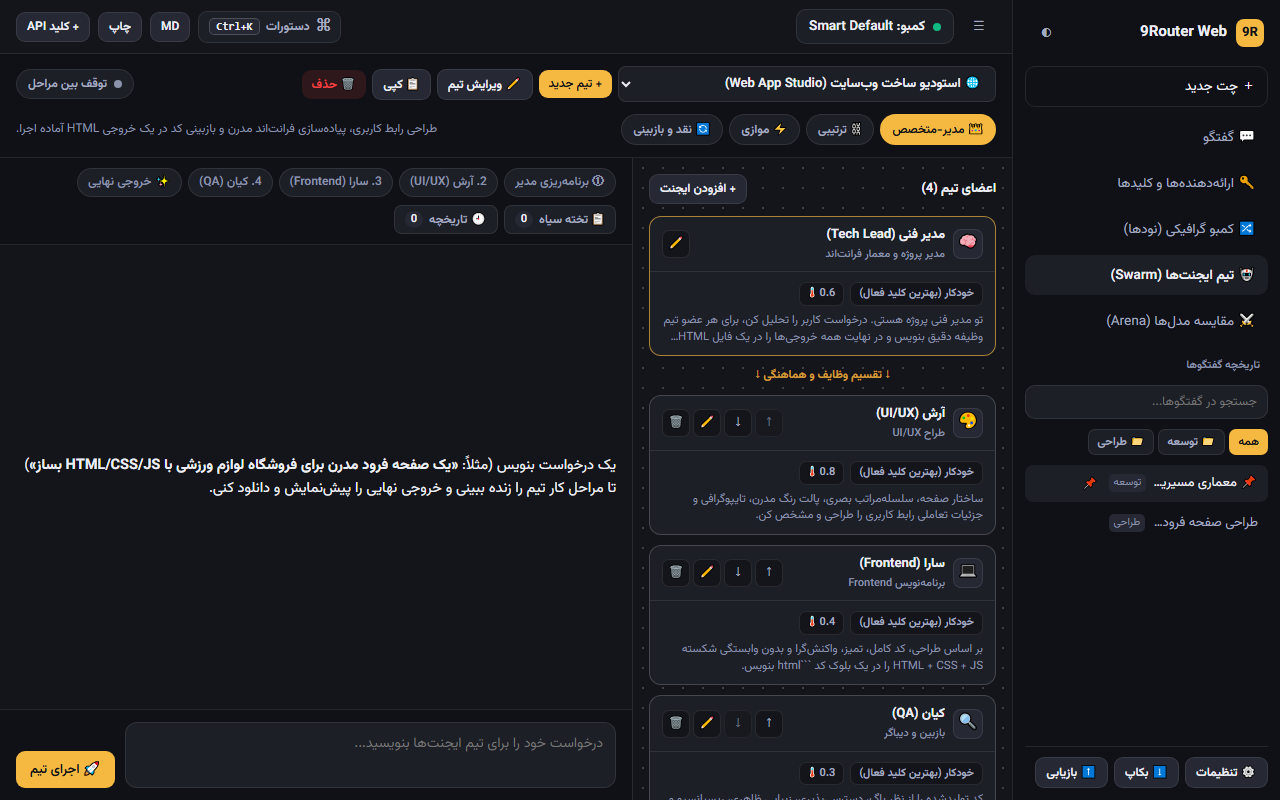
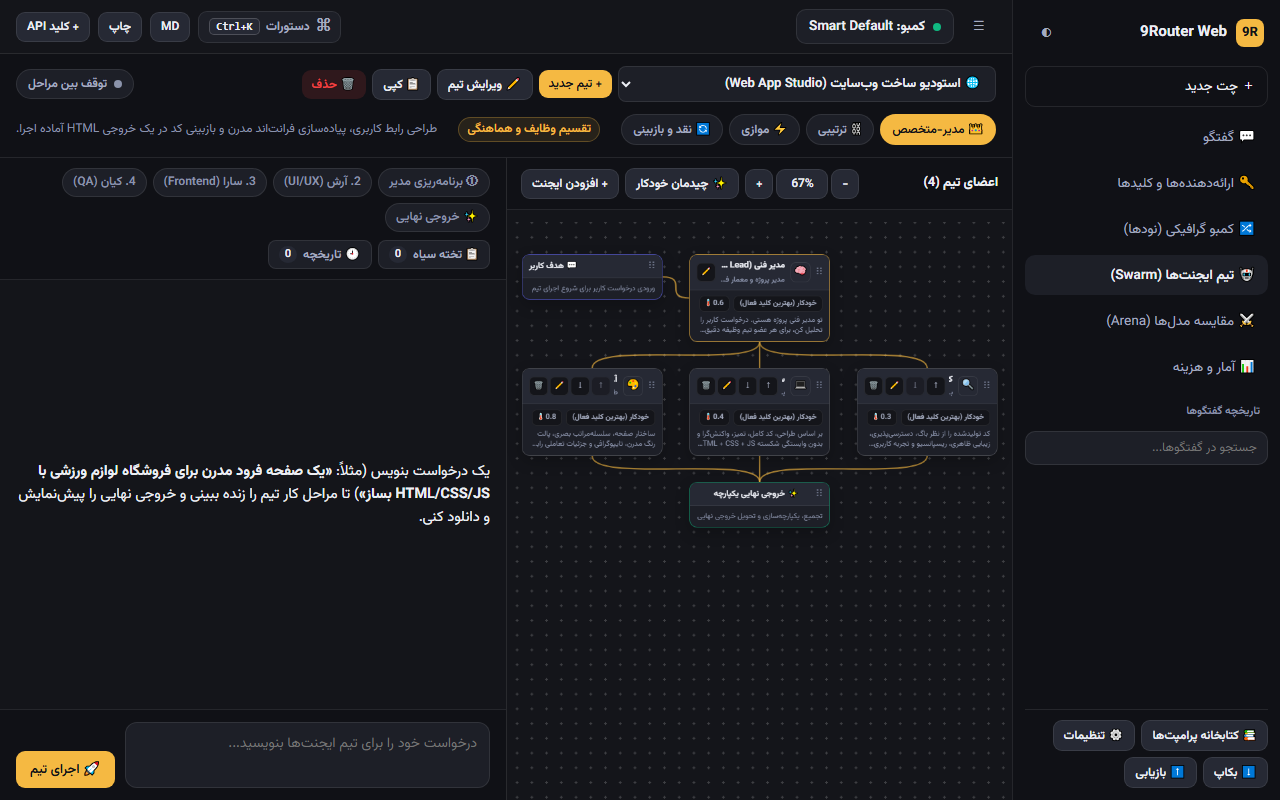
test(docs): add team_graph tests, update README & refresh team.png screenshot

diff --git a/tests/team_graph.test.js b/tests/team_graph.test.js
@@ -1,0 +1,176 @@
+import test from 'node:test';
+import assert from 'node:assert/strict';
+
+import {
+  computeAutoLayout,
+  deriveEdges,
+  normalizeTeamLayout,
+} from '../js/team_graph.js';
+
+const memStorage = new Map();
+globalThis.localStorage = {
+  getItem: (k) => (memStorage.has(k) ? memStorage.get(k) : null),
+  setItem: (k, v) => memStorage.set(k, String(v)),
+  removeItem: (k) => memStorage.delete(k),
+  clear: () => memStorage.clear(),
+};
+
+const { store } = await import('../js/store.js');
+
+test('computeAutoLayout: returns positions for goal, manager, every worker, and output; deterministic and ordered left-to-right', () => {
+  const team = {
+    id: 'team_layout_1',
+    workers: [
+      { id: 'w_alpha', name: 'Alpha' },
+      { id: 'w_beta', name: 'Beta' },
+      { id: 'w_gamma', name: 'Gamma' },
+      { id: 'w_delta', name: 'Delta' },
+    ],
+  };
+
+  const first = computeAutoLayout(team);
+  const second = computeAutoLayout(team);
+
+  assert.deepEqual(first, second, 'computeAutoLayout must be deterministic for the same input');
+
+  const expectedKeys = ['goal', 'manager', 'w_alpha', 'w_beta', 'w_gamma', 'w_delta', 'output'];
+  for (const key of expectedKeys) {
+    assert.ok(first.nodes[key], `missing position for node "${key}"`);
+    assert.equal(typeof first.nodes[key].x, 'number');
+    assert.equal(typeof first.nodes[key].y, 'number');
+    assert.ok(Number.isFinite(first.nodes[key].x));
+    assert.ok(Number.isFinite(first.nodes[key].y));
+  }
+
+  // Workers ordered left-to-right (x ascending) by team.workers array order
+  const xs = team.workers.map((w) => first.nodes[w.id].x);
+  for (let i = 0; i < xs.length - 1; i++) {
+    assert.ok(
+      xs[i] < xs[i + 1],
+      `expected worker ${team.workers[i].id} (x=${xs[i]}) to be left of ${team.workers[i + 1].id} (x=${xs[i + 1]})`
+    );
+  }
+});
+
+test('deriveEdges: exact edge sets for manager_worker, sequential, parallel, and debate_review (with 3+ critics)', () => {
+  const baseTeam = {
+    workers: [
+      { id: 'w1', name: 'Author' },
+      { id: 'w2', name: 'Critic 1' },
+      { id: 'w3', name: 'Critic 2' },
+      { id: 'w4', name: 'Critic 3' },
+    ],
+  };
+
+  // 1. manager_worker
+  assert.deepEqual(deriveEdges(baseTeam, 'manager_worker'), [
+    { from: 'goal', to: 'manager', kind: 'input' },
+    { from: 'manager', to: 'w1', kind: 'delegate' },
+    { from: 'manager', to: 'w2', kind: 'delegate' },
+    { from: 'manager', to: 'w3', kind: 'delegate' },
+    { from: 'manager', to: 'w4', kind: 'delegate' },
+    { from: 'w1', to: 'output', kind: 'synthesize' },
+    { from: 'w2', to: 'output', kind: 'synthesize' },
+    { from: 'w3', to: 'output', kind: 'synthesize' },
+    { from: 'w4', to: 'output', kind: 'synthesize' },
+  ]);
+
+  // 2. sequential
+  assert.deepEqual(deriveEdges(baseTeam, 'sequential'), [
+    { from: 'goal', to: 'manager', kind: 'input' },
+    { from: 'manager', to: 'w1', kind: 'step' },
+    { from: 'w1', to: 'w2', kind: 'step' },
+    { from: 'w2', to: 'w3', kind: 'step' },
+    { from: 'w3', to: 'w4', kind: 'step' },
+    { from: 'w4', to: 'output', kind: 'synthesize' },
+  ]);
+
+  // 3. parallel
+  assert.deepEqual(deriveEdges(baseTeam, 'parallel'), [
+    { from: 'goal', to: 'manager', kind: 'input' },
+    { from: 'manager', to: 'w1', kind: 'parallel' },
+    { from: 'manager', to: 'w2', kind: 'parallel' },
+    { from: 'manager', to: 'w3', kind: 'parallel' },
+    { from: 'manager', to: 'w4', kind: 'parallel' },
+    { from: 'w1', to: 'output', kind: 'synthesize' },
+    { from: 'w2', to: 'output', kind: 'synthesize' },
+    { from: 'w3', to: 'output', kind: 'synthesize' },
+    { from: 'w4', to: 'output', kind: 'synthesize' },
+  ]);
+
+  // 4. debate_review with 3 critics (author -> every critic -> output)
+  assert.deepEqual(deriveEdges(baseTeam, 'debate_review'), [
+    { from: 'goal', to: 'manager', kind: 'input' },
+    { from: 'manager', to: 'w1', kind: 'draft' },
+    { from: 'w1', to: 'w2', kind: 'critique' },
+    { from: 'w2', to: 'output', kind: 'revise' },
+    { from: 'w1', to: 'w3', kind: 'critique' },
+    { from: 'w3', to: 'output', kind: 'revise' },
+    { from: 'w1', to: 'w4', kind: 'critique' },
+    { from: 'w4', to: 'output', kind: 'revise' },
+  ]);
+});
+
+test('store normalizer: team imported without layout gains one automatically; existing layout positions stay untouched', () => {
+  const customLayout = {
+    nodes: {
+      goal: { x: 15, y: 25 },
+      manager: { x: 310, y: 45 },
+      w_keep_1: { x: 120, y: 260 },
+      w_keep_2: { x: 480, y: 275 },
+      output: { x: 320, y: 490 },
+    },
+  };
+
+  const backup = {
+    providers: store.state.providers,
+    teams: [
+      {
+        id: 'team_no_layout',
+        name: 'No Layout Team',
+        manager: { name: 'Lead', role: 'Manager' },
+        workers: [
+          { id: 'w_auto_1', name: 'Dev', role: 'Engineer' },
+          { id: 'w_auto_2', name: 'QA', role: 'Tester' },
+        ],
+      },
+      {
+        id: 'team_with_layout',
+        name: 'Custom Layout Team',
+        manager: { name: 'Lead', role: 'Manager' },
+        workers: [
+          { id: 'w_keep_1', name: 'Designer', role: 'UI' },
+          { id: 'w_keep_2', name: 'Backend', role: 'API' },
+        ],
+        layout: customLayout,
+      },
+    ],
+  };
+
+  store.importJson(JSON.stringify(backup));
+
+  const autoTeam = store.state.teams.find((t) => t.id === 'team_no_layout');
+  assert.ok(autoTeam?.layout?.nodes, 'team without layout should gain layout.nodes automatically');
+  const expectedAuto = computeAutoLayout(autoTeam);
+  assert.deepEqual(autoTeam.layout, expectedAuto);
+
+  const keptTeam = store.state.teams.find((t) => t.id === 'team_with_layout');
+  assert.deepEqual(
+    keptTeam.layout,
+    customLayout,
+    'team with existing layout must keep its { x, y } positions untouched'
+  );
+
+  // Also verify normalizeTeamLayout preserves existing and fills missing
+  const partial = normalizeTeamLayout({
+    workers: [
+      { id: 'w_keep_1', name: 'Designer' },
+      { id: 'w_new_3', name: 'New Worker' },
+    ],
+    layout: { nodes: { manager: { x: 999, y: 888 }, w_keep_1: { x: 120, y: 260 } } },
+  });
+  assert.deepEqual(partial.nodes.manager, { x: 999, y: 888 });
+  assert.deepEqual(partial.nodes.w_keep_1, { x: 120, y: 260 });
+  assert.ok(partial.nodes.w_new_3 && Number.isFinite(partial.nodes.w_new_3.x));
+  assert.ok(partial.nodes.goal && partial.nodes.output);
+});

diff --git a/README.md b/README.md
@@ -58,15 +58,15 @@
 - **تنظیم مدل اختصاصی برای هر نود (Per-Node Model)**، چیدمان خودکار (**Auto-Layout**)، و بزرگنمایی/جابهجایی بوم (**Zoom & Pan**).
 - پشتیبانی از ۴ سیاست مسیریابی: **`Fallback`** (اولویتی)، **`Round-Robin`** (چرخشی)، **`Smart Router`** (هوشمند بر اساس سلامت نود) و **`Least Used`** (کمترین مصرف).
 
-### 🤖 استودیو تیم ایجنتها (Team Studio / Swarm)
-- **۴ پیشتنظیم آماده (Presets)** برای شروع سریع به همراه امکان ساخت و ویرایش تیمهای سفارشی.
-- **۴ حالت اجرا (Execution Modes):**
+### 🤖 استودیو گرافیکی تیم ایجنتها (Graphical Team Studio / Swarm)
+- **بوم گرافیکی تعاملی (Interactive Graph Canvas):** جابهجایی آزاد نودها با درگ (**Drag to Arrange**)، بزرگنمایی و جابهجایی بوم (**Pan & Zoom**)، و **چیدمان خودکار (Auto-Layout)** با ذخیره خودکار موقعیتها.
+- **اتصالهای هوشمند بر اساس حالت اجرا (Mode-Derived Wires):** رسم خودکار سیمهای SVG بین نودهای هدف، مدیر، متخصصها و خروجی نهایی متناسب با هر یک از ۴ حالت اجرا:
   - `Manager-Worker` (مدیر-متخصص)
-  - `Sequential` (ترتیبی)
+  - `Sequential` (ترتیبی با نشانگر شماره مرحله `#1`، `#2`، …)
   - `Parallel` (موازی)
   - `Debate & Review` (نقد و بازبینی چرخهای)
-- تنظیم مستقل **ارائهدهنده، مدل، کلید و دما (Temperature)** برای هر ایجنت.
-- **تلهمتری زنده (Live Telemetry)**، **تخته اشتراکی (Shared Blackboard)**، قابلیت **توقف تعاملی بین مراحل (HITL Pause)** و **تاریخچه اجراها (Run History)**.
+- **۴ پیشتنظیم آماده (Presets)** برای شروع سریع به همراه امکان ساخت و ویرایش تیمهای سفارشی و تنظیم مستقل **ارائهدهنده، مدل، کلید و دما (Temperature)** برای هر ایجنت.
+- **پایش زنده روی بوم (Live Run Highlighting & Telemetry):** هایلایت نود فعال و جریان انیمیشنی سیمهای ورودی در حین اجرا، نمایش چیپ تلهمتری (زمان و توکن) روی نودهای تکمیلشده، **تخته اشتراکی (Shared Blackboard)**، قابلیت **توقف تعاملی بین مراحل (HITL Pause)** و **تاریخچه اجراها (Run History)**.
 
 ### ⚔ مقایسه مدلها (Arena)
 - ارسال همزمان یک پرامپت به چند مدل مختلف و مقایسه مستقیم کیفیت و سرعت پاسخها کنار هم.
